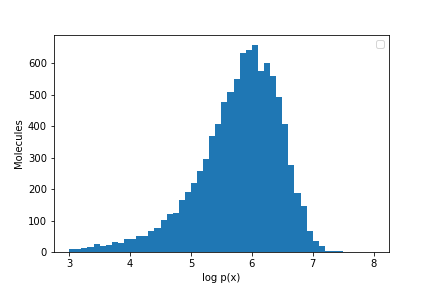
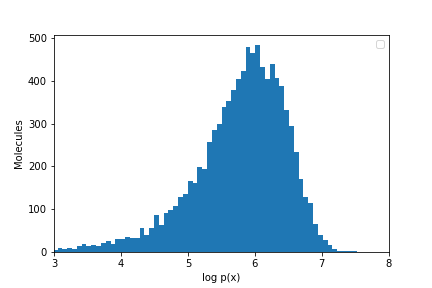
Update

diff --git a/main_QM9.py b/main_QM9.py
@@ -23,7 +23,7 @@ data_QM9 = data_QM9.drop_duplicates(subset=['INCHI'], keep='first')
 
 img_QM9 = Draw.MolsToGridImage([Chem.MolFromSmiles(mol) for mol in list(data_QM9['SMILES'])[:20]], molsPerRow=5,subImgSize=(500,500), legends=list(data_QM9['SMILES'])[:20])
 img_QM9
-open('display_data_QM9.png','wb').write(img_QM9.data)
+open('./sh_and_pics/display_data_QM9.png','wb').write(img_QM9.data)
 
 data_QM9['SMILES'].to_csv('./data/train_QM9.txt', header=False, index=False)
 

diff --git a/generate_p_vals.py b/generate_p_vals.py
@@ -32,4 +32,4 @@ plt.ylabel('Molecules')
 plt.xlabel('log p(x)')
 plt.xlim([3,8])
 plt.legend()
-fig.savefig('./')
+fig.savefig('./sh_and_pics/log_p_his.png')
